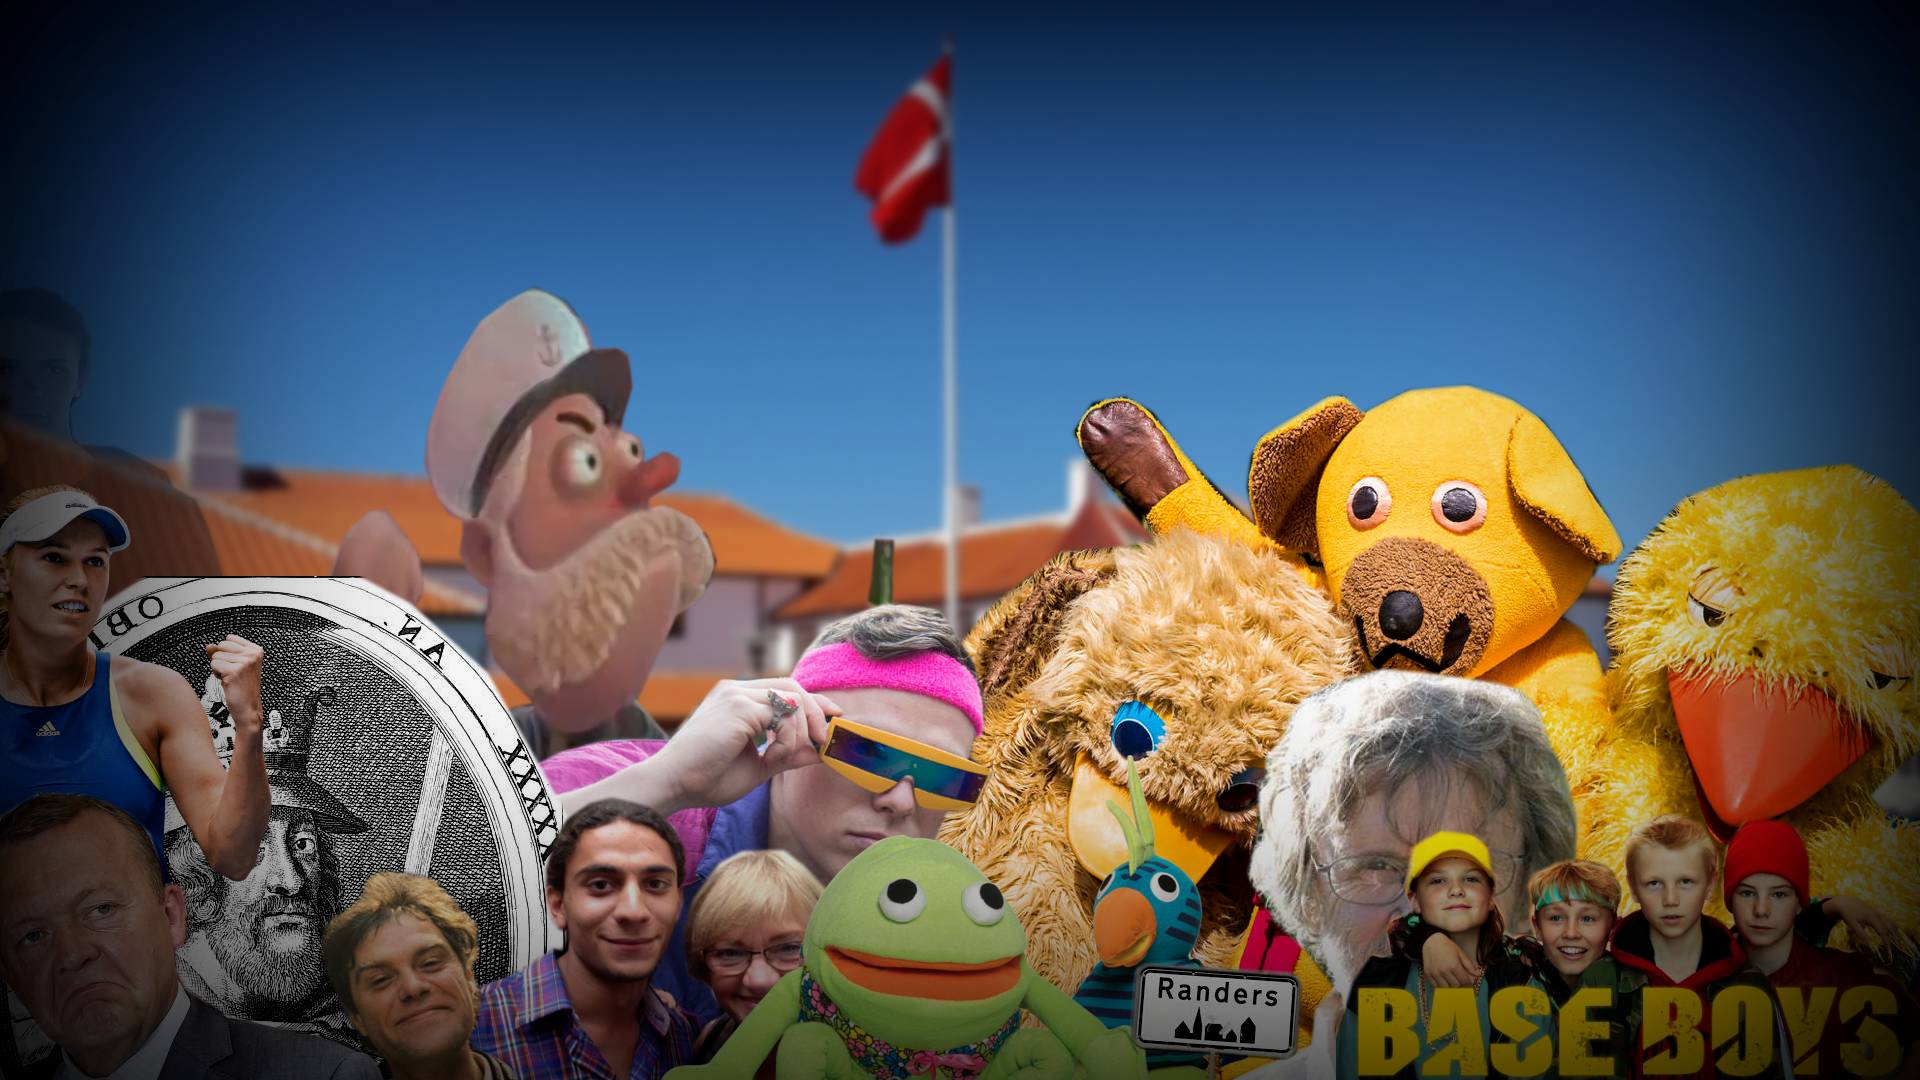
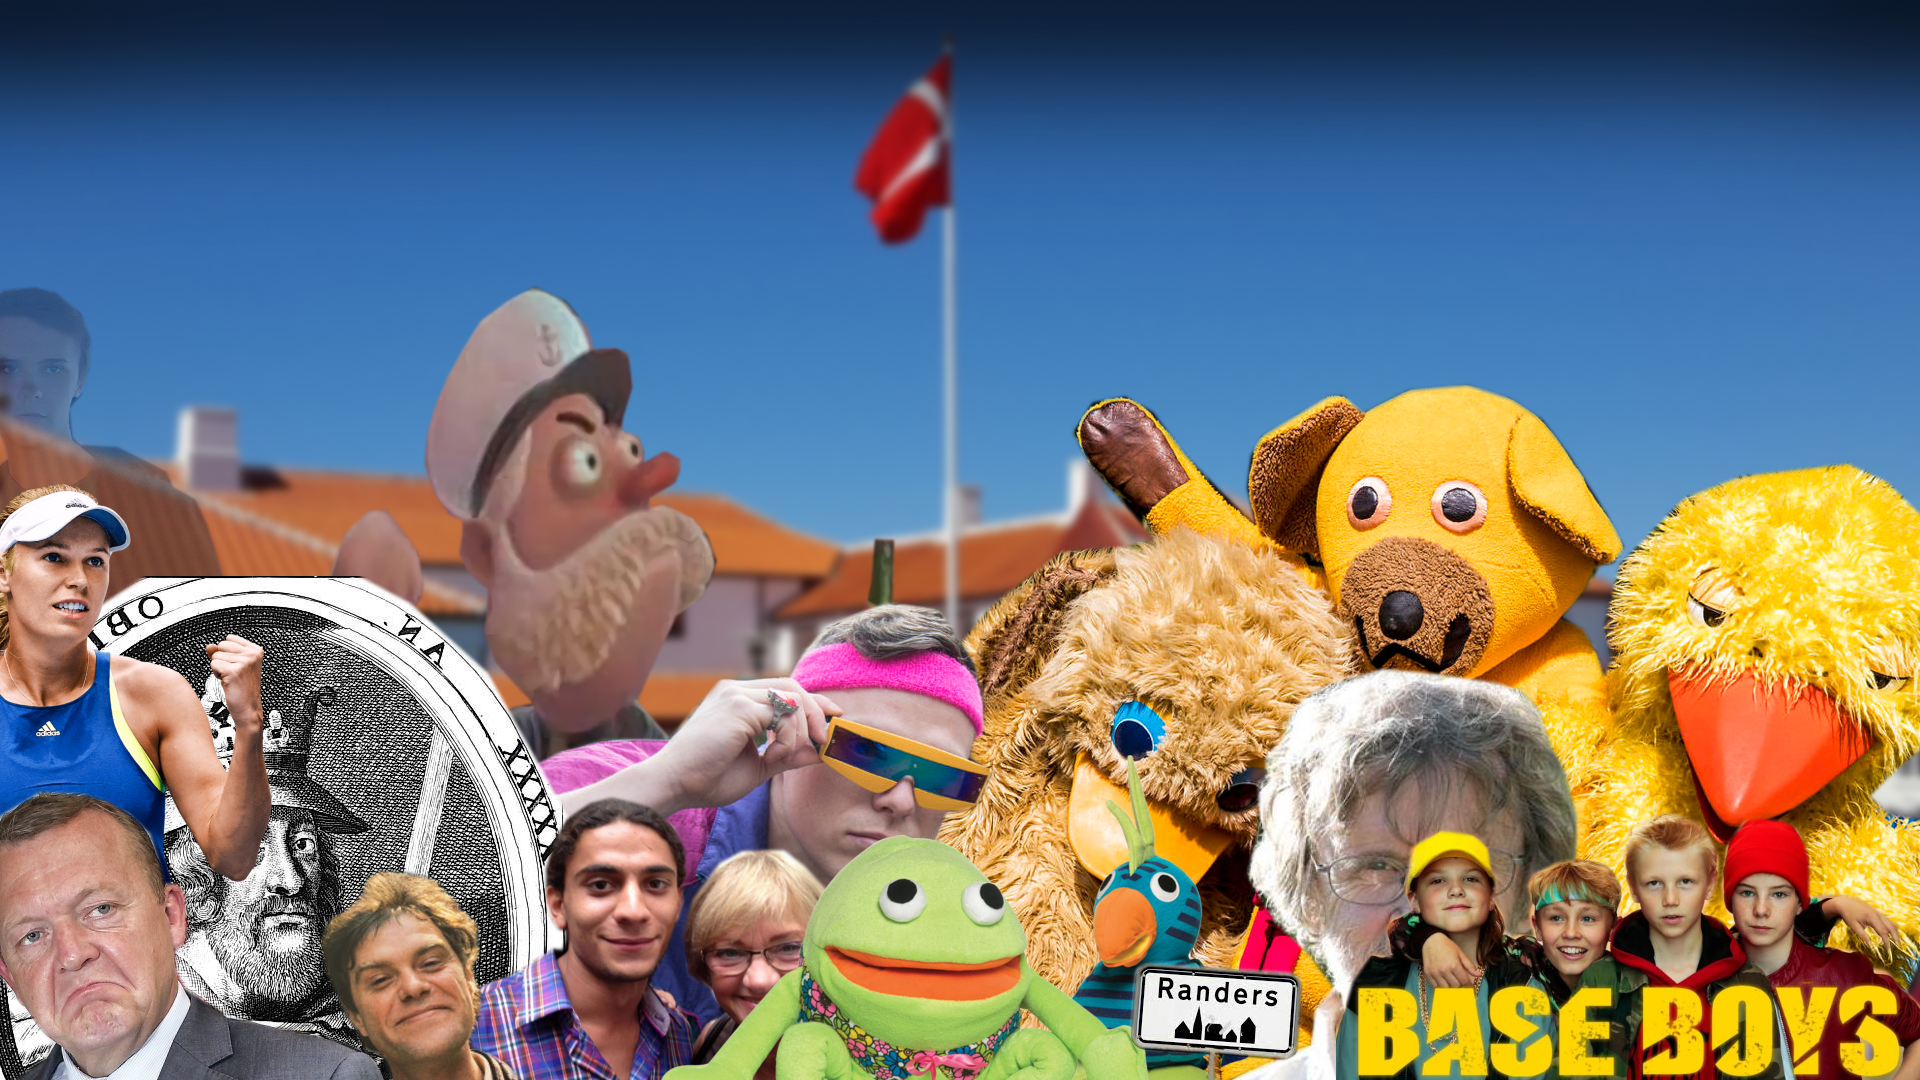
carousel styled

diff --git a/css/landing.css b/css/landing.css
@@ -41,10 +41,10 @@ body {
 }
 
 #slidebox {
-  background-image: url("../images/poelsemix_bg.png");
+  background-image: url("../images/gradient_back.png");
   background-repeat: no-repeat;
   background-size: cover;
-  background-position: top center;
+  background-position: bottom;
   overflow: hidden;
 }
 
@@ -64,13 +64,44 @@ body {
 }
 
 .slider-nav .slick-current {
-  outline: 3px solid turquoise;
+  outline: 3px solid rgb(168, 25, 82);
   outline-offset: -3px;
 }
 
 .slider-nav img {
   margin-right: 2px;
   margin-left: 2px;
+}
+
+.slick-prev,
+.slick-next
+{
+  position: absolute;
+  display: block;
+
+  top: 50%;
+	-webkit-transform: translate(0, -50%);
+	-ms-transform: translate(0, -50%);
+	transform: translate(0, -50%);
+  cursor: pointer;
+
+  width: 52px;
+  height: 52px;
+
+  color: transparent;
+  border: none;
+  outline: none;
+  background-color: transparent;
+}
+
+.slick-prev {
+  background-image: url("../images/circle_arrow_left.png");
+  left: -10%;
+}
+
+.slick-next {
+  background-image: url("../images/circle_arrow_right.png");
+  right: -10%;
 }
 
 /* Slideshow ting som ikke er done men brugte for meget tid paa det, saa sletter det ikke */

diff --git a/scripts/slideshow.js b/scripts/slideshow.js
@@ -4,14 +4,14 @@ function createSlideShow(){
     slidesToScroll: 1,
     arrows: false,
     asNavFor: '.slider-nav',
-    infinite: false
+    infinite: true
   });
   $('.slider-nav').slick({
     slidesToShow: 3,
     asNavFor: '.slider-for',
     centerPadding: '9px',
     focusOnSelect: true,
-    infinite: false
+    infinite: true
   });
 }
 

diff --git a/index.html b/index.html
@@ -22,7 +22,7 @@
   <p>Test</p>
   <p>Test</p>
 
-  <img src="images/cover-temp.png" id="intro-pic">
+  <img src="images/Poelsemix_logo.png" id="intro-pic">
 
   <div id="intro-box" class="container">
     <iframe id="main-trailer" src="https://www.youtube.com/embed/h_pHfflicM0" frameborder="0"></iframe>
